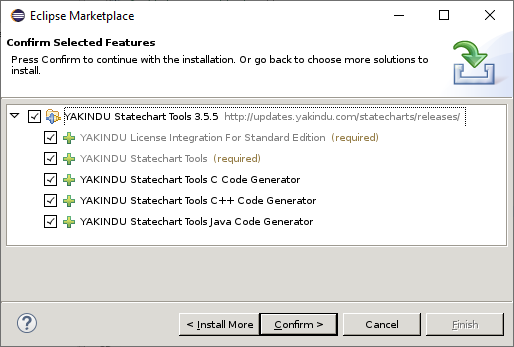
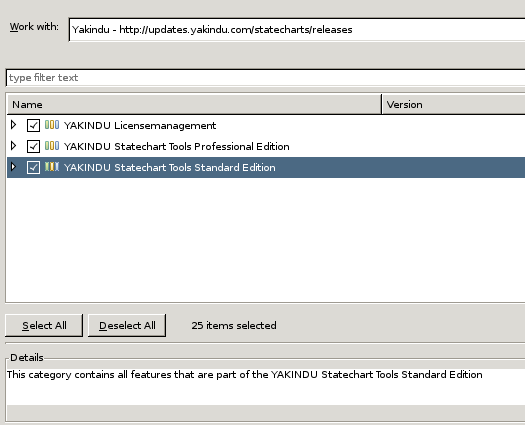
Update SCT plugin installation for install 3.5.6 from update site instead MarketPlace

diff --git a/org.yakindu.sct.examples.rkh.blinky.stm32/index.html b/org.yakindu.sct.examples.rkh.blinky.stm32/index.html
@@ -72,7 +72,7 @@
       <a href=http://www.ac6-tools.com/downloads/SW4STM32/install_sw4stm32_linux_64bits-v2.9.run>SW4STM32-V2.9-lnx64</a> </p>
 
       <h3>3.2 Install YAKINDU SCT Plugin </h3>
-      <p>Go to Eclipse Marketplace and type yakindu in search box:</p>
+      <p> Go to Help - Install New Software and add Yakindu SCT update site: </p>
       <p><img class="standard-image" src="images/yakindu-plugin.png" /></p>
     
       <p>Select and confirm all features</p>
